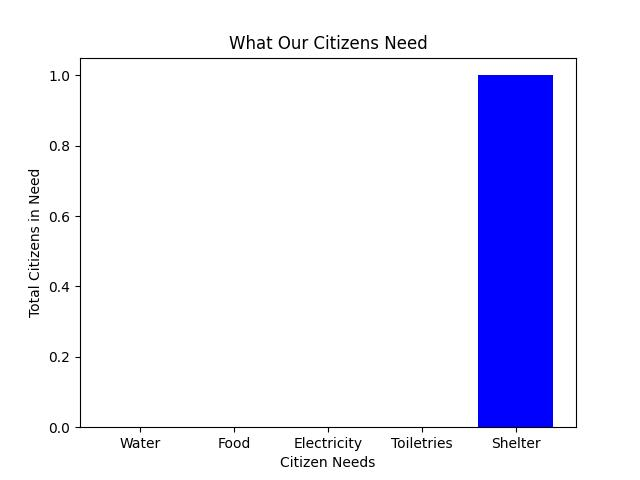
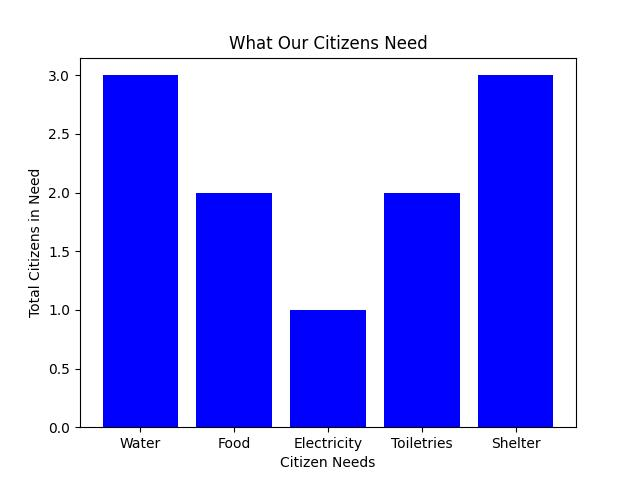
update

diff --git a/templates/admin.html b/templates/admin.html
@@ -12,29 +12,34 @@
     <div id="mainpage">
         <header>
             <div>D.R.A.S Administrator Page</div>
-            <div>Disaster Relief Assistance Service</div>
-            <div>Relief Victim Needs</div>
             <form action="/admin" method="post">
                 <input type="hidden" name="email" id="" value=email>
                 <input type="hidden" name='password' value=password>
                 <button>Refresh</button>
             </form>
         </header>
-        <div id="peoplebox">
-        {% for i in range(1,count) %}
-            <div class="person">
-                <div class='location'>
-                    {{people[i]["street_address"]}}, {{people[i]["city"]}}, {{people[i]["state"]}}, {{people[i]["zipCode"]}}
+        <div id='mainContainer'>
+            <div id="peoplebox">
+            <h1>Citizen Listing</h1>
+            {% for i in range(1,count) %}
+                <div class="person">
+                    <div class='location'>
+                        {{people[i]["street_address"]}}, {{people[i]["city"]}}, {{people[i]["state"]}}, {{people[i]["zipCode"]}}
+                    </div>
+                    <div class="needs">
+                        <div class='parameter'>Water: {{people[i]['water']}}</div>
+                        <div class='parameter'>Food: {{people[i]["food"]}}</div>
+                        <div class='parameter'>Electricity: {{people[i]["electricity"]}}</div>
+                        <div class='parameter'>Toiletries: {{people[i]["tp"]}}</div>
+                        <div class='parameter'>Shelter: {{people[i]["shelter"]}}</div>
+                    </div>
                 </div>
-                <div class="needs">
-                    <div class='parameter'>Water: {{people[i]['water']}}</div>
-                    <div class='parameter'>Food: {{people[i]["food"]}}</div>
-                    <div class='parameter'>Electricity: {{people[i]["electricity"]}}</div>
-                    <div class='parameter'>Toiletries: {{people[i]["tp"]}}</div>
-                    <div class='parameter'>Shelter: {{people[i]["shelter"]}}</div>
-                </div>
+            {% endfor %}
             </div>
-        {% endfor %}
+            <div id="graphs">
+                <h1>Overall Metrics</h1>
+                <img src="static/output.jpg" alt="">
+            </div>
         </div>
 
     </div>

diff --git a/static/admin.css b/static/admin.css
@@ -1,6 +1,7 @@
 body {
     margin: 0;
     padding: 0;
+    box-sizing: border-box;
 }
 
 header {
@@ -28,7 +29,6 @@ button {
 
 #mainpage {
     width: 100%;
-    height: 100vh;
     background-color: #002855;
     display: flex;
     flex-direction: column;
@@ -36,11 +36,23 @@ button {
     justify-content: flex-start;
 }
 
+#mainContainer {
+    width: 95%;
+    display: flex;
+    justify-content: space-between;
+    flex-direction: row;
+    align-items: flex-start;
+}
+
 #peoplebox {
     display: flex;
     justify-content: flex-start;
     align-items: flex-start;
     flex-direction: column;
+    width: 60%;
+    border-radius: 1rem;
+    background-color: rgba(0, 0, 0, .3);
+    padding: 0 .5rem 0 .5rem;
 }
 
 .person {
@@ -48,11 +60,11 @@ button {
     flex-direction: row;
     align-items: center;
     justify-content: space-between;
-    padding: .5rem 1rem .5rem 1rem;
-    width: 100%;
+    padding: .25rem 1rem .25rem 1rem;
+    width: 85%;
     border-radius: 1rem;
     background-color: rgba(0, 0, 0, .3);
-    margin: .5rem 0 .5rem 0;
+    margin: .25rem 0 .25rem 0;
 }
 
 .location {
@@ -73,14 +85,19 @@ button {
     width: 50%;
 }
 
-#box {
-    width: 90%;
-    height: 90%;
-    padding: 1rem;
-    border-radius: 1rem;
-    background-color: rgba(0, 0, 0, .3);
+#graphs {
     display: flex;
-    justify-content: center;
+    position: sticky;
+    justify-content: flex-start;
     flex-direction: column;
     align-items: center;
+    border-radius: 1rem;
+    background-color: rgba(0, 0, 0, .3);
+    margin: 0 0 .5rem 0;
+    padding: 1rem;
+    width: 30%;
+}
+
+img {
+    width: 100%;
 }

diff --git a/server.py b/server.py
@@ -1,4 +1,6 @@
 from flask import Flask, render_template, redirect, url_for, request
+import matplotlib
+matplotlib.use('Agg')
 import matplotlib.pyplot as plt
 import csv
 from csv import DictWriter
